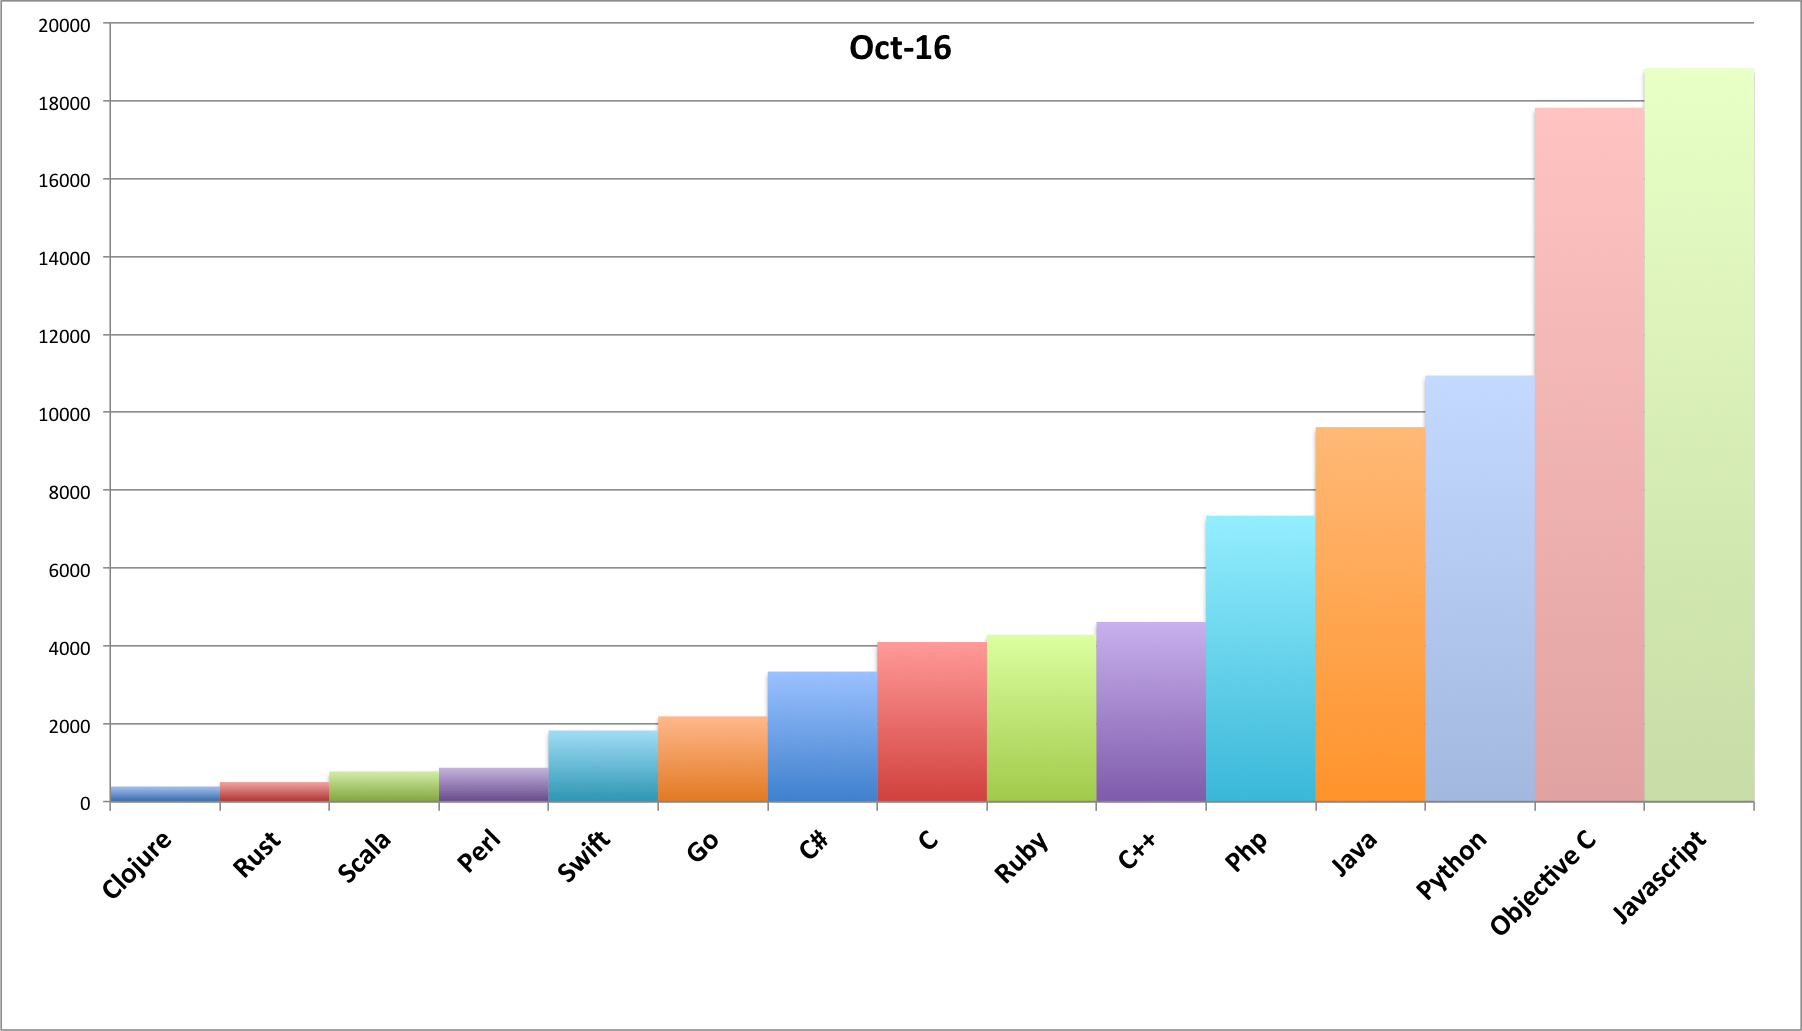
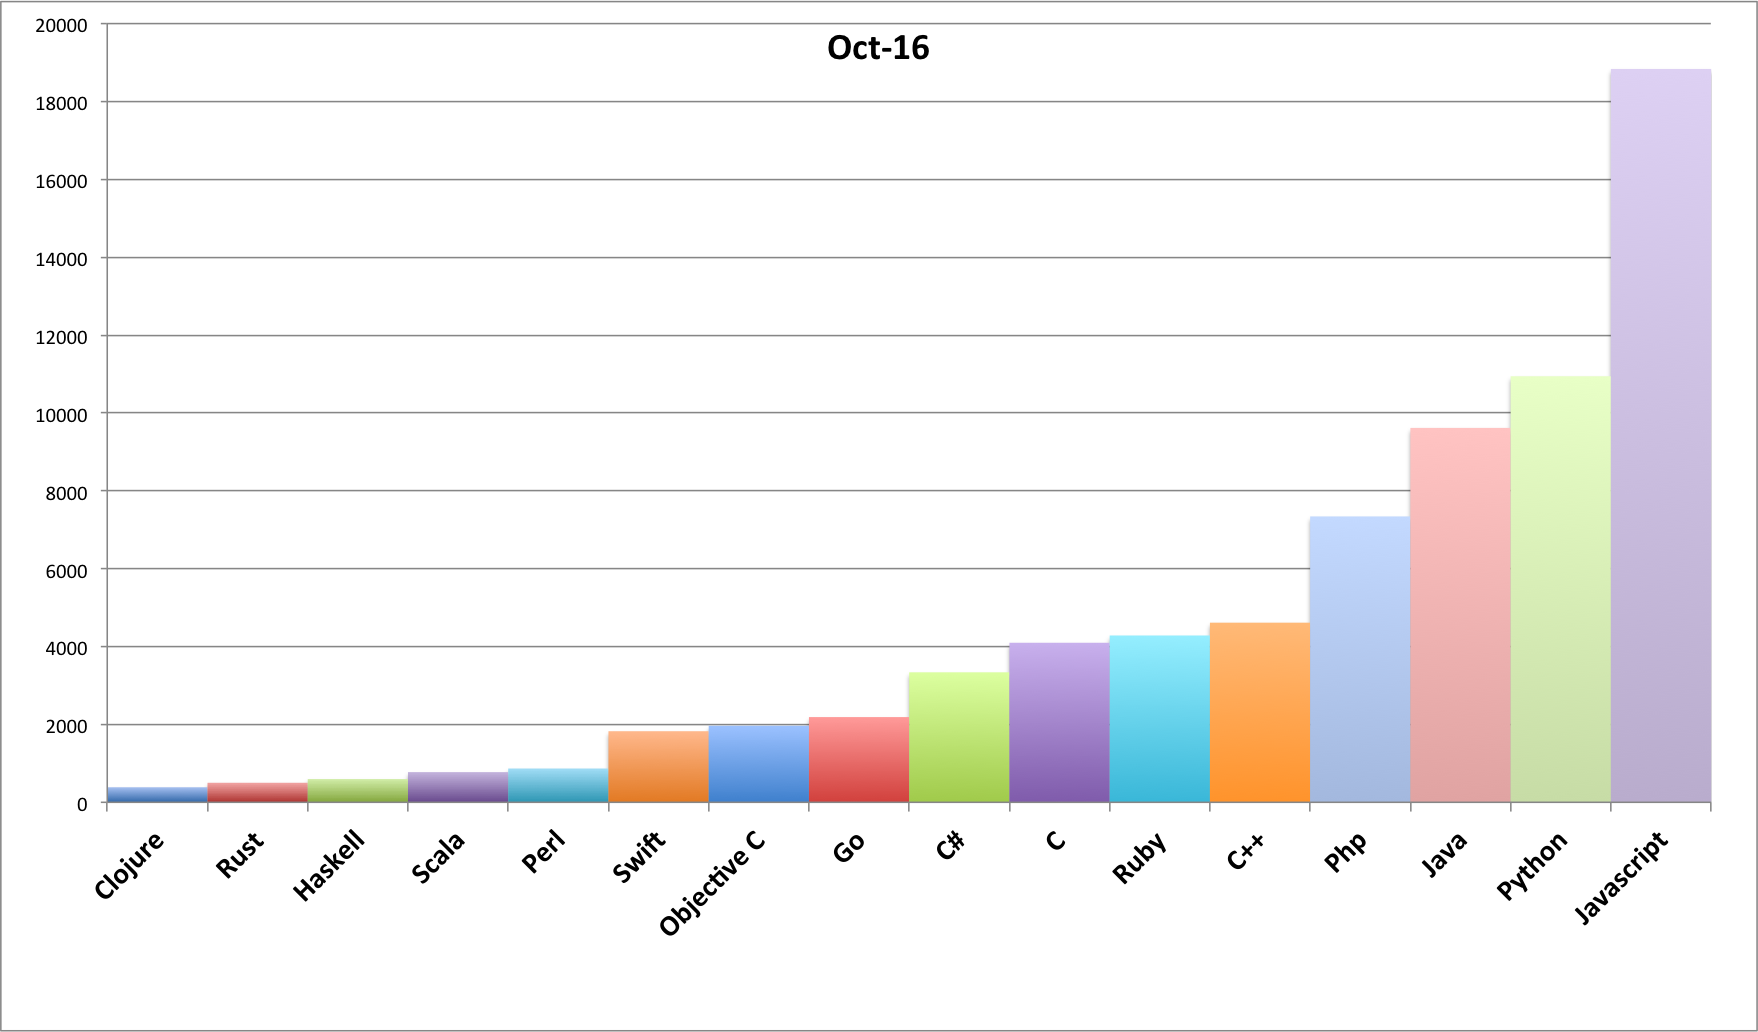
Implements #5

diff --git a/main.go b/main.go
@@ -27,7 +27,8 @@ import (
 	"time"
 )
 
-var languages = []string{"C", "C++", "C#", "Clojure", "Go", "Java", "Javascript", "Objective C", "Perl", "Php", "Python", "Ruby", "Rust", "Scala", "Swift"}
+//var languages = []string{"C", "C++", "C#", "Clojure", "Go", "Haskell", "Java", "Javascript", "Objective C", "Perl", "Php", "Python", "Ruby", "Rust", "Scala", "Swift"}
+var languages = []string{"Haskell", "Objective C"}
 
 func CountProjects(language string, year int, month int) (int, error) {
 
@@ -36,7 +37,7 @@ func CountProjects(language string, year int, month int) (int, error) {
 
 	const GhEndPoint = "https://api.github.com/search/repositories?q=stars:>0+forks:>0+size:>10+"
 
-	u := GhEndPoint + "language:" + url.QueryEscape(language)
+	u := GhEndPoint + "language:" + url.QueryEscape("\"" + language + "\"")
 
 	startMonth := time.Date(year, time.Month(month), 1, 0, 0, 0, 0, time.UTC)
 	endMonth := startMonth.AddDate(0, 1, -1)
@@ -75,29 +76,23 @@ func CountProjects(language string, year int, month int) (int, error) {
 
 func MainHandler(w http.ResponseWriter, r *http.Request) {
 
-	vars := mux.Vars(r)
-
-	year, err := strconv.Atoi(vars["year"])
-	if err != nil {
-		http.Error(w, vars["year"] + " is not a numeric value", http.StatusNotAcceptable)
-		return
-	}
-
 	w.Header().Set("Content-Type", "text/csv")
 	w.WriteHeader(http.StatusOK)
 
 	for _, language := range languages {
 		var md string = language + " |"
 		fmt.Fprint(w, language)
-		for month := 1; month <= 12; month++ {
-			count, err := CountProjects(language, year, month)
-			if err != nil {
-				http.Error(w, "Error on language " + language + " " + err.Error(), http.StatusNotAcceptable)
-				return
+		for year := 2014; year <= 2016; year++ {
+			for month := 1; month <= 12; month++ {
+				count, err := CountProjects(language, year, month)
+				if err != nil {
+					http.Error(w, "Error on language " + language + " " + err.Error(), http.StatusNotAcceptable)
+					return
+				}
+				log.Printf("%04d-%02d\t%s\t%d", year, month, language, count)
+				md += " " + fmt.Sprintf("%6s", strconv.Itoa(count)) + " |"
+				fmt.Fprintf(w, "\t%d", count)
 			}
-			log.Printf("%04d-%02d\t%s\t%d", year, month, language, count)
-			md += " " + fmt.Sprintf("%6s", strconv.Itoa(count)) + " |"
-			fmt.Fprintf(w, "\t%d", count)
 		}
 		log.Printf(md)
 		fmt.Fprintln(w)
@@ -106,6 +101,6 @@ func MainHandler(w http.ResponseWriter, r *http.Request) {
 
 func main() {
 	r := mux.NewRouter()
-	r.HandleFunc("/{year}", MainHandler)
+	r.HandleFunc("/", MainHandler)
 	log.Fatal(http.ListenAndServe(":8000", r))
 }

diff --git a/README.md b/README.md
@@ -13,7 +13,7 @@ An active repository should meet this requirements:
 ![Statistiques](stats-oct-2016.png)
 
 ## From 2014 to 2016
-![Statistiques](statsv13.png)
+![Statistiques](stats-2014-01_2016-10.png)
 
 ### 2014 statistics
 
@@ -24,9 +24,10 @@ An active repository should meet this requirements:
 | C#          |    453 |    423 |    470 |    501 |    536 |    471 |    517 |    557 |    490 |    565 |    645 |    560 |
 | Clojure     |     87 |     93 |     82 |     68 |     75 |     75 |     66 |     85 |     63 |     78 |     76 |     82 |
 | Go          |    202 |    210 |    227 |    217 |    258 |    248 |    284 |    295 |    301 |    304 |    295 |    362 |
+| Haskell     |     64 |     68 |     63 |     60 |     73 |     73 |     62 |     86 |     72 |     95 |     69 |     84 | 
 | Java        |   1631 |   1498 |   1785 |   1789 |   1828 |   1741 |   1893 |   1795 |   1812 |   2018 |   2101 |   2174 |
 | Javascript  |   2716 |   2664 |   2963 |   2925 |   3190 |   2890 |   3121 |   3272 |   3290 |   3420 |   3506 |   3452 |
-| Objective C |   2694 |   2595 |   2899 |   2849 |   3024 |   2761 |   3016 |   2888 |   2957 |   3219 |   3242 |   3242 |
+| Objective C |    611 |    578 |    659 |    686 |    664 |    535 |    580 |    588 |    533 |    600 |    533 |    543 |
 | Perl        |    145 |    141 |    149 |    141 |    139 |    149 |    145 |    208 |    153 |    176 |    149 |    142 |
 | PHP         |   1176 |   1153 |   1205 |   1130 |   1129 |   1048 |   1144 |   1174 |   1155 |   1290 |   1266 |   1197 |
 | Python      |   1535 |   1428 |   1715 |   1648 |   1773 |   1682 |   1649 |   1804 |   1738 |   1822 |   1790 |   1894 |
@@ -44,9 +45,10 @@ An active repository should meet this requirements:
 | C#          |    703 |    650 |    931 |    887 |    878 |    873 |    842 |    929 |    927 |    950 |    913 |    962 |
 | Clojure     |     65 |     98 |     96 |     87 |     89 |    100 |    112 |    102 |    118 |    115 |     90 |    119 |
 | Go          |    432 |    356 |    463 |    427 |    438 |    439 |    479 |    520 |    527 |    567 |    432 |    385 |
+| Haskell     |     88 |     81 |     90 |    121 |    108 |    124 |    106 |    137 |    135 |    129 |    132 |    112 |  
 | Java        |   2227 |   1939 |   2754 |   2762 |   2674 |   2608 |   2629 |   2679 |   2734 |   2856 |   2629 |   2988 |
 | Javascript  |   3651 |   3668 |   4334 |   4456 |   4463 |   4618 |   4718 |   4792 |   5048 |   5588 |   4680 |   4842 |
-| Objective C |   3418 |   3385 |   4398 |   4474 |   4602 |   4269 |   4490 |   4593 |   4753 |   5072 |   4417 |   4670 |
+| Objective C |    586 |    523 |    706 |    734 |    727 |    702 |    805 |    899 |    812 |    883 |    762 |    904 | 
 | Perl        |    190 |    149 |    210 |    173 |    206 |    197 |    161 |    179 |    176 |    255 |    197 |    176 |
 | PHP         |   1355 |   1284 |   1575 |   1580 |   1654 |   1590 |   1713 |   1685 |   1686 |   1836 |   1671 |   1675 |
 | Python      |   2081 |   1809 |   2378 |   2399 |   2460 |   2420 |   2460 |   2596 |   2664 |   2903 |   2496 |   2536 |
@@ -64,9 +66,10 @@ An active repository should meet this requirements:
 | C#          |    980 |   1066 |   1103 |   1231 |   1386 |   1433 |   1477 |   1745 |   2015 |   3339 |        |        |
 | Clojure     |    135 |    111 |    117 |    112 |    133 |    165 |    150 |    200 |    223 |    387 |        |        |
 | Go          |    511 |    511 |    701 |    633 |    693 |    715 |    767 |   1086 |   1341 |   2189 |        |        |
+| Haskell     |    133 |    118 |    138 |    114 |    253 |    259 |    223 |    284 |    333 |    597 |        |        |
 | Java        |   3132 |   3011 |   4033 |   3923 |   4137 |   4231 |   4483 |   5340 |   6055 |   9617 |        |        |
 | Javascript  |   5399 |   6278 |   6357 |   6804 |   6965 |   7348 |   7736 |   9364 |  11769 |  18837 |        |        |
-| Objective C |   4917 |   5362 |   6043 |   6167 |   6734 |   6990 |   7196 |   8711 |  10885 |  17821 |        |        |
+| Objective C |   1010 |   1155 |   1127 |   1070 |   1100 |   1103 |   1131 |   1283 |   1564 |   1966 |        |        |
 | Perl        |    219 |    253 |    250 |    278 |    298 |    338 |    332 |    441 |    490 |    868 |        |        |
 | PHP         |   1904 |   2181 |   2326 |   2324 |   2547 |   2727 |   2892 |   3702 |   4404 |   7343 |        |        |
 | Python      |   2643 |   2862 |   3309 |   3417 |   3741 |   3988 |   4243 |   5146 |   6510 |  10944 |        |        |
@@ -83,11 +86,11 @@ This little GO program requests the
 [GitHub API](https://developer.github.com/v3/search/#search-repositories)
 
 A typical request for one language for one month is:
-https://api.github.com/search/repositories?q=stars:>0+forks:>0+size:>10+language:Swift+pushed:2016-11-01..2016-11-30
+https://api.github.com/search/repositories?q=stars:>0+forks:>0+size:>10+language:%22Swift%22+pushed:2016-11-01..2016-11-30
 
 The program exposes the following resource:
 
-http://localhost/{year}
+http://localhost/
 
 A CSV file is returned.
 
